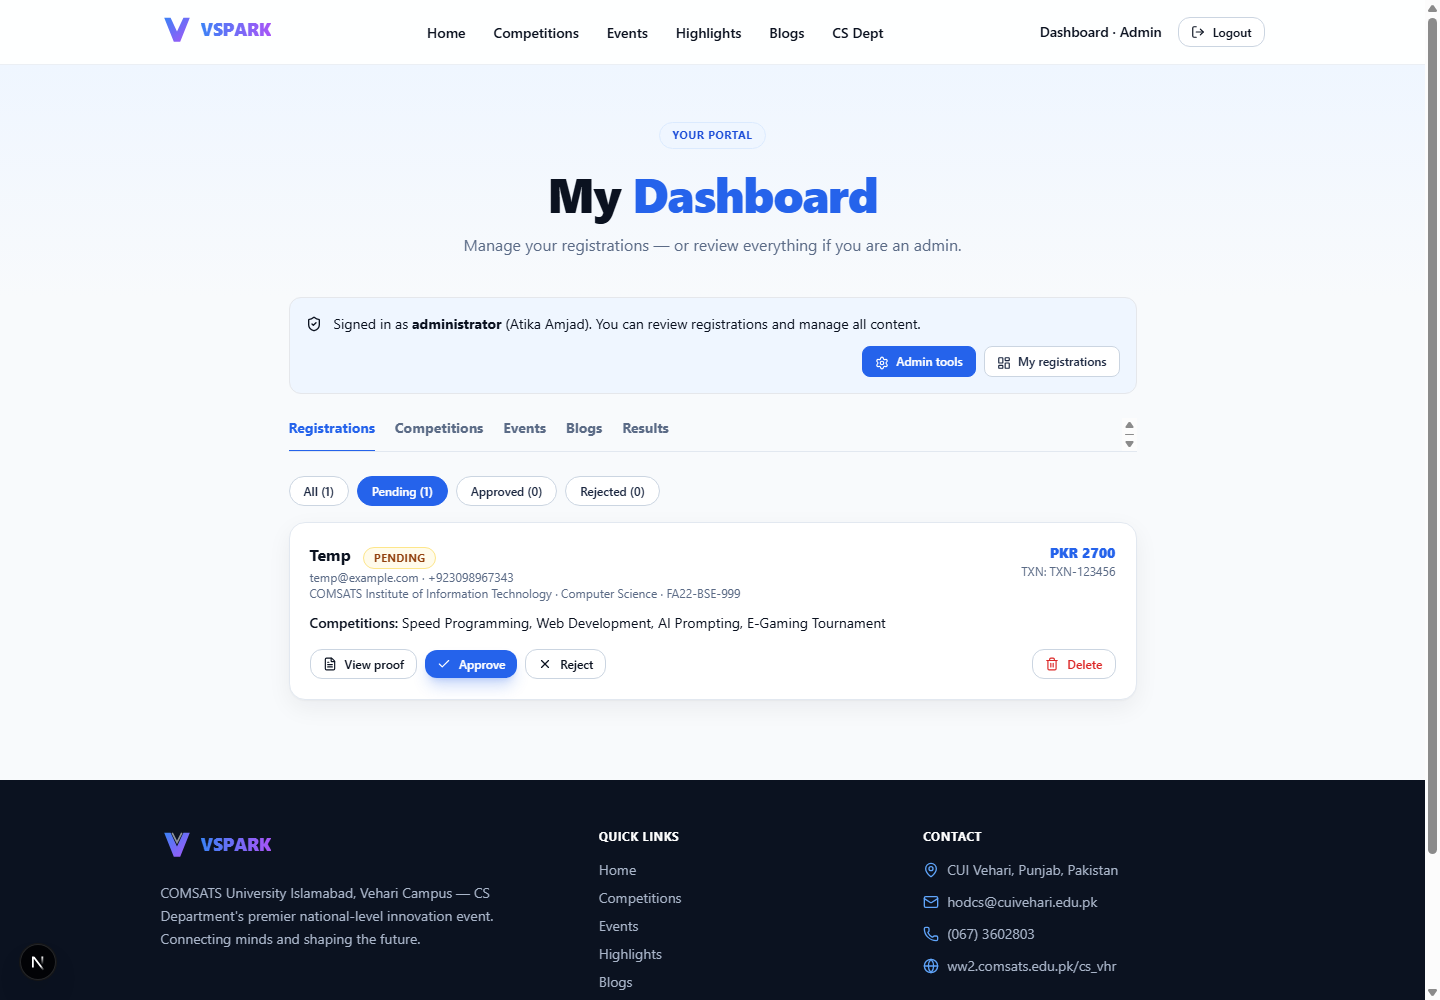
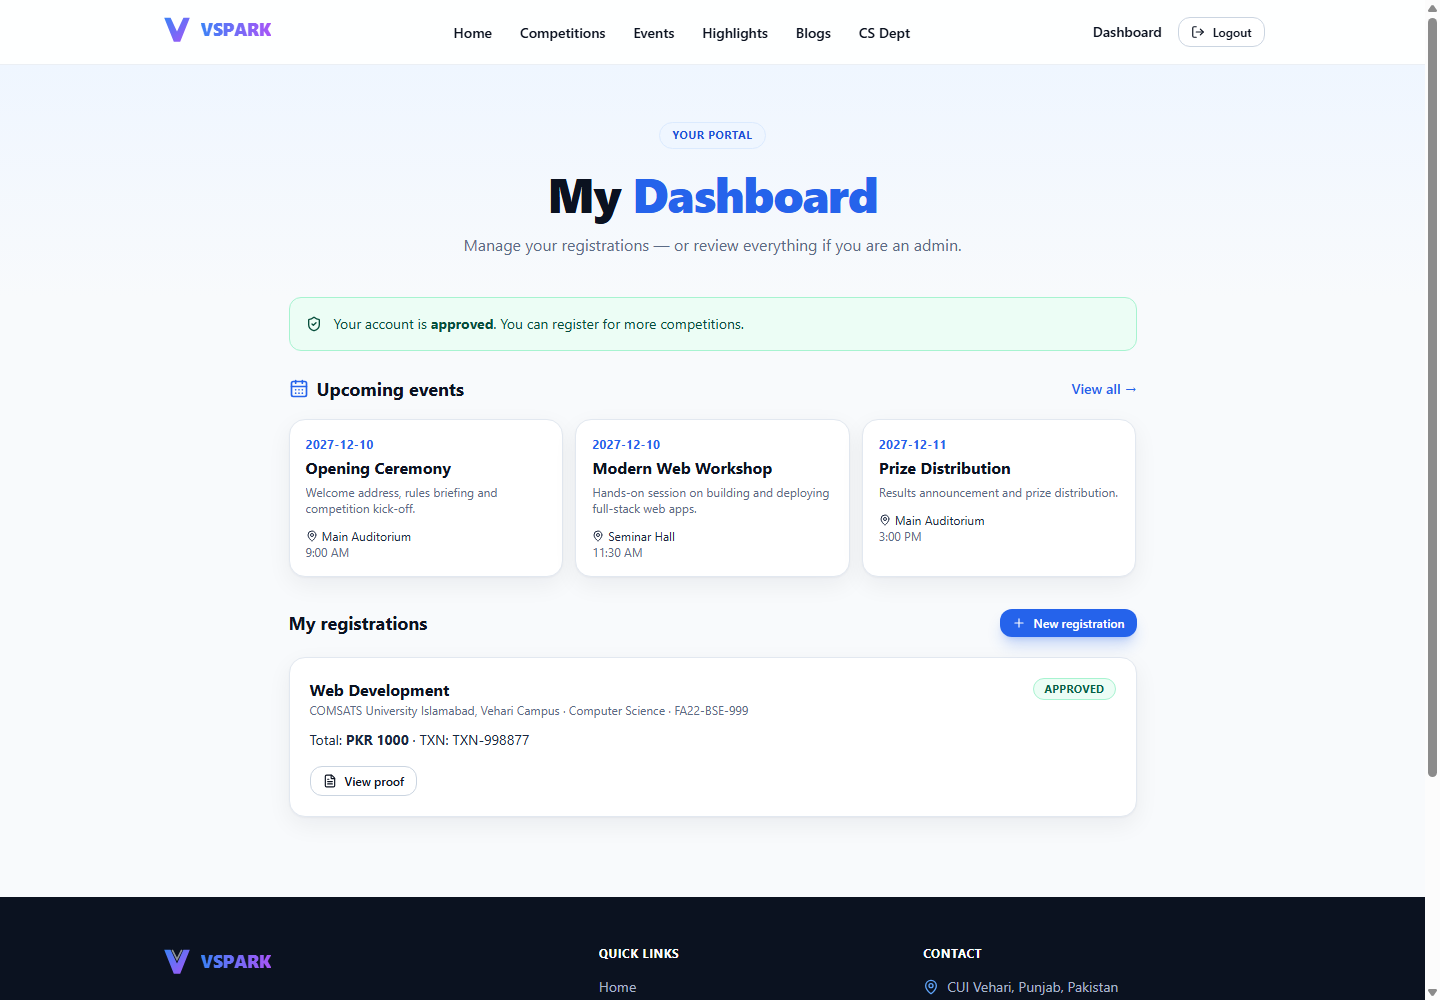
fix(realtime): unique channel per subscription; add screenshots and docs

diff --git a/src/lib/useCollection.ts b/src/lib/useCollection.ts
@@ -1,6 +1,6 @@
 "use client";
 
-import { useCallback, useEffect, useState } from "react";
+import { useCallback, useEffect, useRef, useState } from "react";
 import { listRows, type QueryOptions } from "./db";
 import { SUPABASE_NOT_CONFIGURED_MESSAGE, getSupabase, isSupabaseConfigured } from "./supabase";
 
@@ -45,19 +45,24 @@ export function useCollection<T>(table: string, opts: QueryOptions = {}) {
     // eslint-disable-next-line react-hooks/exhaustive-deps
   }, [table, tick, filterKey, orderKey]);
 
+  // Unique per hook instance: two components can watch the same table+filter,
+  // and Supabase returns the existing channel for a duplicate topic name,
+  // which throws when .on() is called after subscribe().
+  const channelId = useRef(Math.random().toString(36).slice(2));
+
   // Live updates: any insert/update/delete on the table re-runs the fetch,
   // so the admin and participant views stay in sync without a manual refresh.
   useEffect(() => {
     if (!isSupabaseConfigured) return;
     const supabase = getSupabase();
     const channel = supabase
-      .channel(`realtime:${table}:${filterKey}`)
+      .channel(`realtime:${table}:${channelId.current}`)
       .on("postgres_changes", { event: "*", schema: "public", table }, () => reload())
       .subscribe();
     return () => {
       void supabase.removeChannel(channel);
     };
-  }, [table, filterKey, reload]);
+  }, [table, reload]);
 
   return { ...state, reload };
 }

diff --git a/docs/screenshots/README.md b/docs/screenshots/README.md
@@ -1,42 +1,40 @@
 # Screenshots
 
-Captured automatically from the running app at `http://localhost:3000` on 17 Nov 2026
-(1440×1000, real Supabase data).
+Captured from the running app (production build, `http://localhost:3000`) against the live Supabase database,
+17–22 November 2026, at 1440×1000 (except the mobile shot).
 
-## Already captured
+## Captured
 
 | File | Shows |
 |---|---|
-| `01-home.png` | Home page (hero, navigation, feature cards) |
+| `01-home.png` | Home page — hero, navigation, feature cards |
 | `02-login.png` | Login page with the pending-approval notice |
-| `03-register.png` | Registration form with the **university list loaded from the live Hipo Labs API** |
+| `03-register.png` | Registration form with the university list loaded from the live Hipo Labs API |
 | `04-competitions.png` | Competitions page loaded from Supabase (fees, prizes, venues) |
-| `05-events.png` | Events page loaded from Supabase |
-| `06-blogs.png` | Blogs page with the Blog Post / Achievement tabs |
+| `05-events.png` | Events page |
+| `06-blogs.png` | Blogs page with Blog Post / Achievement tabs |
 | `07-highlights.png` | Highlights page (gallery + results tabs) |
 | `08-universities.png` | Universities page with live external API results |
-| `09-dashboard.png` | Participant dashboard (authenticated, approved account) |
-| `10-admin.png` | Admin dashboard with the Registrations / Competitions / Events / Blogs / Results tabs |
-
-## Still to capture
-
-These need a real account and the deployed URL, so they must be taken by hand:
-
-| File | What to capture |
-|---|---|
-| `11-mobile.png` | Home page and the open menu at phone width |
+| `09-dashboard.png` | **Participant dashboard** — approved banner, upcoming events, own registration |
+| `10-admin-dashboard.png` | **Admin dashboard** — Registrations / Competitions / Events / Blogs / Results / History |
+| `11-mobile.png` | Home page at phone width (responsive layout) |
 | `12-register-validation.png` | Validation errors on the register form |
-| `13-upload.png` | A payment proof selected, then uploaded (shows the progress/toast) |
-| `14-dashboard-pending.png` | Dashboard for a fresh account: "pending admin approval" |
-| `15-edit-registration.png` | Editing a pending registration (Update) |
-| `16-admin-proof.png` | Admin opening a participant's proof via the signed URL (Storage retrieval) |
-| `17-admin-approved.png` | The same registration after approval (status = approved) |
-| `18-cancel-registration.png` | Cancelling a registration (Delete) |
-| `19-api-error-state.png` | The universities API error state with the manual-entry fallback |
-| `20-supabase-tables.png` | Supabase Table Editor showing the saved rows |
-| `21-supabase-bucket.png` | The `payment-proofs` bucket containing an uploaded proof |
-| `22-vercel-deployment.png` | A successful Vercel deployment |
-| `23-protected-route.png` | Visiting `/dashboard` while logged out redirects to login |
+| `13-upload.png` | Payment proof selected in the upload control |
+| `14-dashboard-pending.png` | Dashboard for a fresh account — "pending admin approval" |
+| `15-edit-registration.png` | Editing a pending registration |
+| `16-admin-proof.png` | Proof retrieved through a short-lived signed URL (private bucket) |
+| `17-admin-approved.png` | Admin viewing the registration after approval |
+| `19-api-error-state.png` | External API failure state with the retry / manual fallback |
+| `23-protected-route.png` | `/dashboard` while logged out redirects to `/login?next=…` |
 | `24-logout.png` | After logging out |
+
+## Still to capture (needs your accounts)
+
+| File | Why it is missing |
+|---|---|
+| `18-cancel-registration.png` | The browser's native confirm dialog does not appear in automated screenshots — take it manually |
+| `20-supabase-tables.png` | Supabase Table Editor (requires your Supabase dashboard login) |
+| `21-supabase-bucket.png` | The `payment-proofs` bucket with an uploaded file (Supabase dashboard) |
+| `22-vercel-deployment.png` | After the Vercel deployment |
 
 Keep these filenames so the links in the main README keep working.

diff --git a/README.md b/README.md
@@ -170,7 +170,13 @@ running app against the live Supabase database:
 ![Register with live university API](docs/screenshots/03-register.png)
 ![Competitions from Supabase](docs/screenshots/04-competitions.png)
 ![Participant dashboard](docs/screenshots/09-dashboard.png)
-![Admin dashboard](docs/screenshots/10-admin.png)
+![Admin dashboard](docs/screenshots/10-admin-dashboard.png)
+![Mobile layout](docs/screenshots/11-mobile.png)
+![Validation errors](docs/screenshots/12-register-validation.png)
+![Payment proof upload](docs/screenshots/13-upload.png)
+![Pending approval](docs/screenshots/14-dashboard-pending.png)
+![Signed URL proof retrieval](docs/screenshots/16-admin-proof.png)
+![External API error state](docs/screenshots/19-api-error-state.png)
 
 
 ## 10. Testing status
